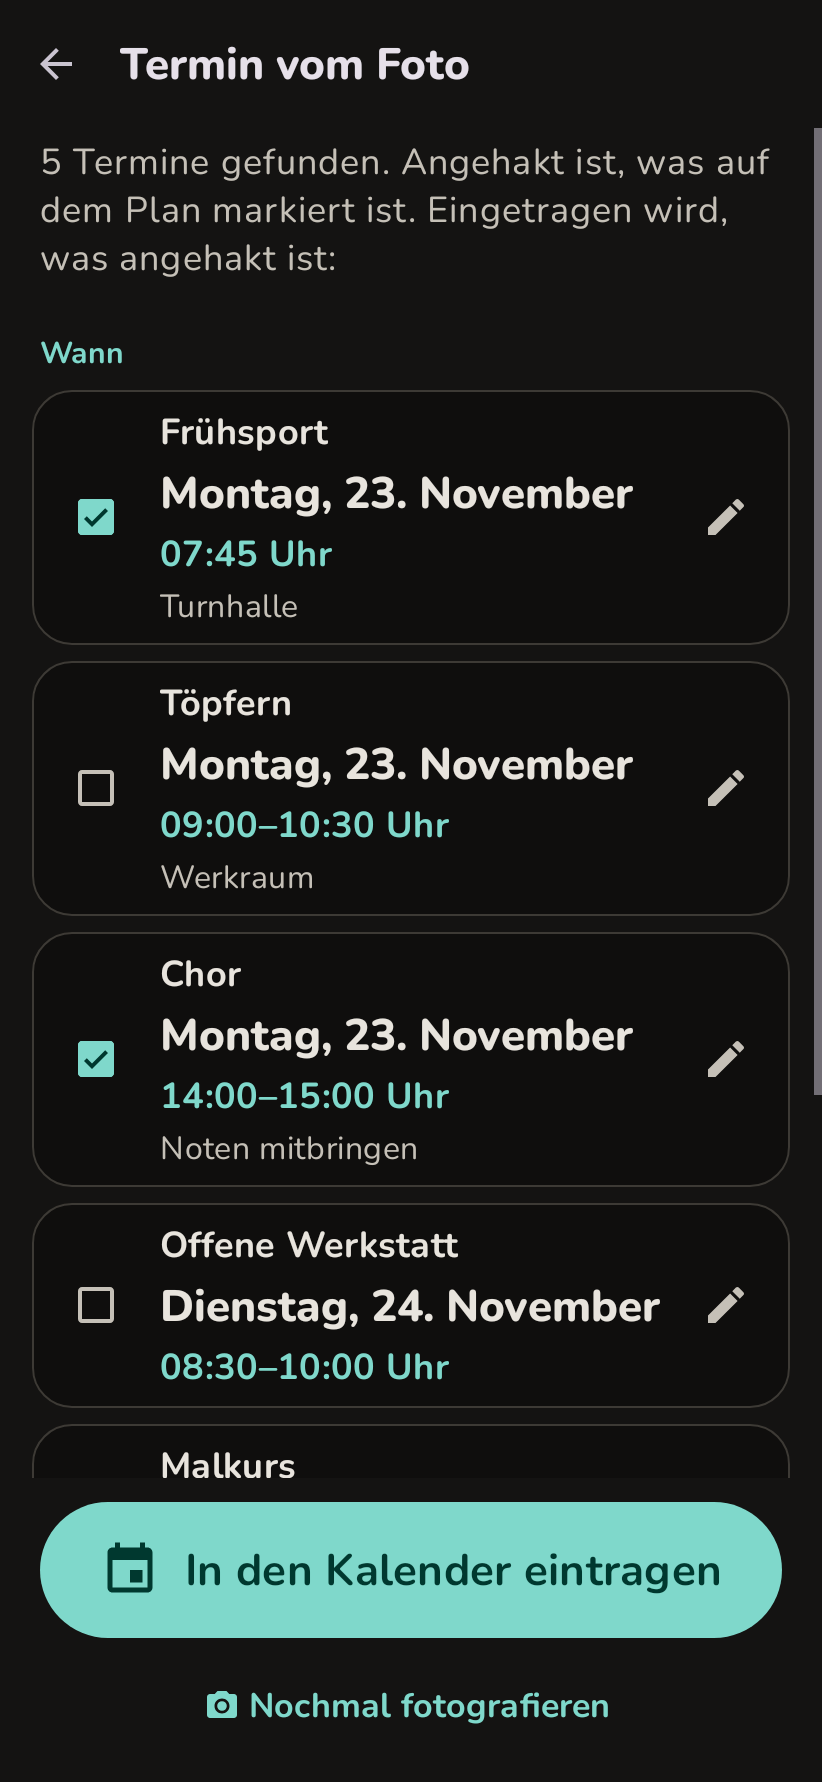
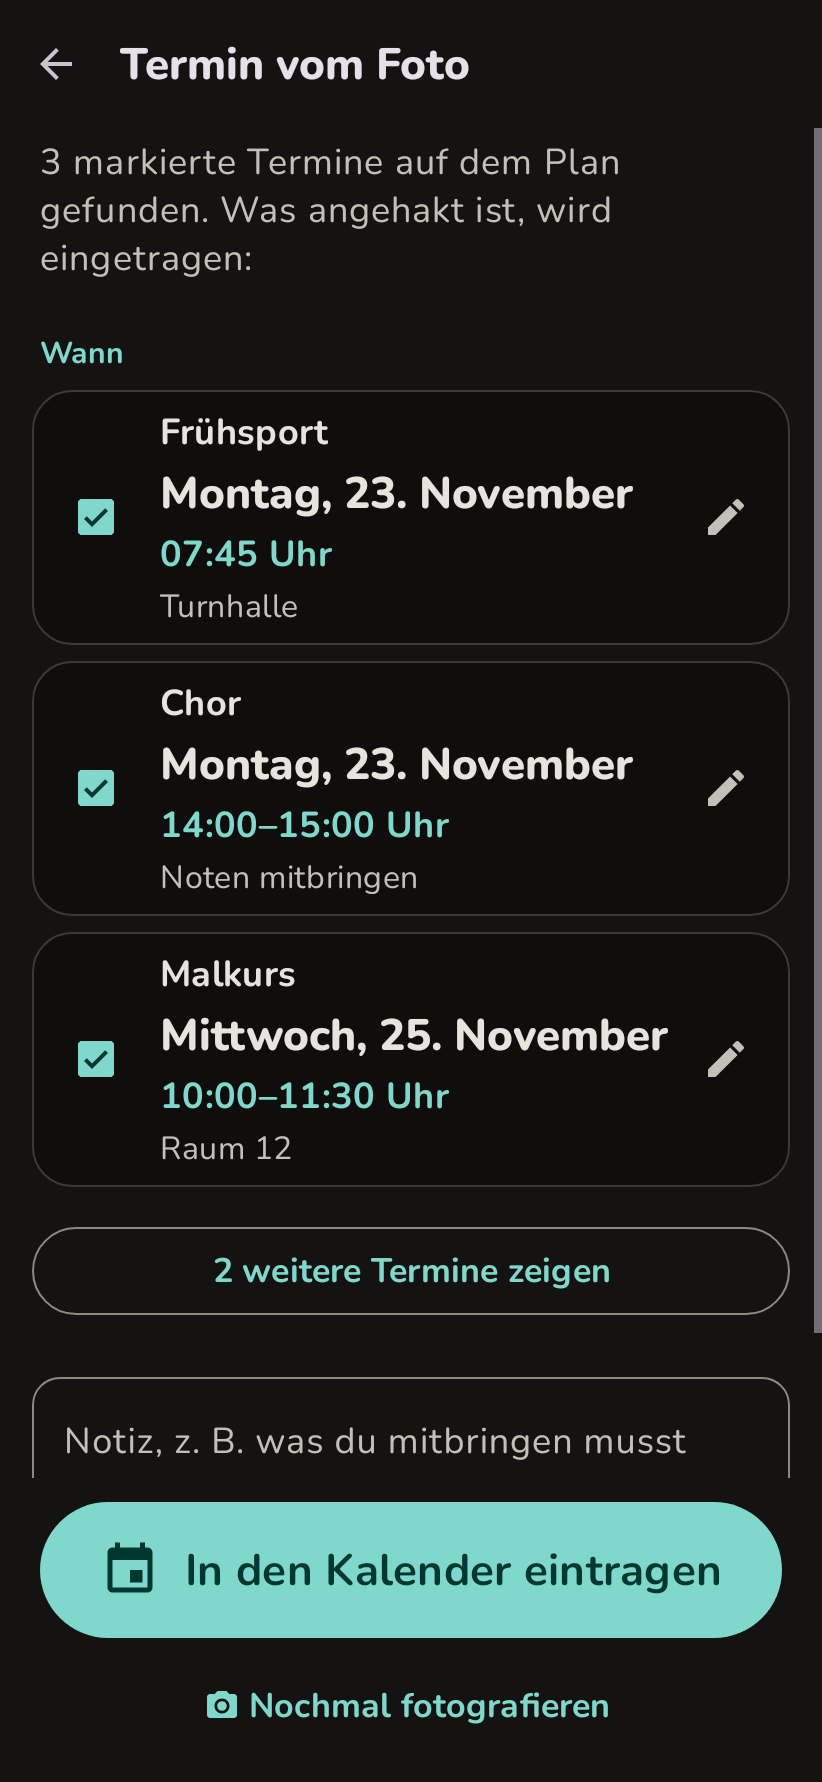
Plans with marked appointments: ticks from the highlighter, the rest folded away (0.11.2)
- The AI often ticked every appointment of a plan, also when only some
  were marked. It is now asked to decide "marked" for each entry on its
  own. When it still ticks everything on a plan (six or more
  appointments with titles), the phone reads the plan itself, tells the
  highlighter by its colour and sets the ticks: PlanReader.withMarks
  matches by weekday, time and title, and what has no clear match keeps
  its tick.
- The check list of a plan with marked appointments shows only those; a
  button ("Show 12 more dates") brings the others.
- The third store screenshot shows the folded list.

Claude-Session: https://claude.ai/code/session_01BeRUbzauKFCoRaM6PqiE45

diff --git a/app/src/test/java/de/silvertax/merks/PhotoFlowTest.kt b/app/src/test/java/de/silvertax/merks/PhotoFlowTest.kt
@@ -483,6 +483,16 @@ class PhotoFlowTest {
         assertEquals("Frühsport", row(activity, 0).findViewById<TextView>(R.id.date_title).text.toString())
         assertEquals("07:30 Uhr", row(activity, 0).findViewById<TextView>(R.id.date_time).text.toString())
         assertEquals("Saal 1", row(activity, 0).findViewById<TextView>(R.id.date_detail).text.toString())
+        // Only what is marked on the plan is listed; a button brings the rest.
+        assertEquals(2, rows(activity).childCount)
+        assertEquals("Chor", row(activity, 1).findViewById<TextView>(R.id.date_title).text.toString())
+        assertEquals("2 markierte Termine auf dem Plan gefunden. Was angehakt ist, wird eingetragen:", activity.findViewById<TextView>(R.id.review_label).text.toString())
+        val more = activity.findViewById<TextView>(R.id.more_dates)
+        assertEquals(View.VISIBLE, more.visibility)
+        assertEquals("1 weiteren Termin zeigen", more.text.toString())
+        more.performClick()
+        assertEquals(View.GONE, more.visibility)
+        assertEquals(3, rows(activity).childCount)
         assertFalse(row(activity, 1).findViewById<CheckBox>(R.id.date_pick).isChecked)
         assertEquals(View.GONE, row(activity, 2).findViewById<View>(R.id.date_detail).visibility)
         // Why one is not ticked: it was not marked on the plan.
@@ -498,6 +508,23 @@ class PhotoFlowTest {
         // The room goes into the entry's note.
         assertEquals("Saal 1", saved[0].note)
         assertNull(saved[1].note)
+    }
+
+    /** A long plan the AI read with everything ticked: the phone looks for the highlighter itself. */
+    @Test fun aPlanTheAiTickedCompletelyIsCheckedForMarksByThePhone() {
+        Prefs.setApiKey(app, "sk-ant-test")
+        val dates = (0 until 8).map { PhotoDate(day.plusDays(it.toLong()), LocalTime.of(9, 0), title = "Kurs $it") }
+        val parts = Parts(first = card, ai = AiPhotoResult(PhotoFind("Kursplan", null, dates, byAi = true), null), words = PlanSheet.courses().words)
+        val activity = photograph(parts)
+        assertEquals(2, parts.wordReads)
+        assertEquals(8, model(activity).dates.size)
+        // A short list, or one with ticks of the AI's own, is left alone.
+        val few = Parts(first = card, ai = AiPhotoResult(PhotoFind("Kursplan", null, dates.take(3), byAi = true), null))
+        photograph(few)
+        assertEquals(0, few.wordReads)
+        val own = Parts(first = card, ai = AiPhotoResult(PhotoFind("Kursplan", null, dates.mapIndexed { i, d -> d.copy(chosen = i % 2 == 0) }, byAi = true), null))
+        photograph(own)
+        assertEquals(0, own.wordReads)
     }
 
     @Test fun aWeeklyPlanIsReadColumnByColumnWithoutAi() {
@@ -517,6 +544,8 @@ class PhotoFlowTest {
         val monday = next.with(DayOfWeek.MONDAY)
         assertEquals(PhotoDate(monday, LocalTime.of(7, 45), source = "07:45 Frühsport Turnhalle", title = "Frühsport", detail = "Turnhalle"), dates[0])
         assertEquals(View.GONE, activity.findViewById<View>(R.id.photo_title_box).visibility)
+        // Nothing is marked, so nothing is folded away.
+        assertEquals(View.GONE, activity.findViewById<View>(R.id.more_dates).visibility)
         assertEquals("Töpfern", row(activity, 1).findViewById<TextView>(R.id.date_title).text.toString())
         assertEquals("Werkraum", row(activity, 1).findViewById<TextView>(R.id.date_detail).text.toString())
         assertEquals("14 Termine gefunden. Was angehakt ist, wird eingetragen:", activity.findViewById<TextView>(R.id.review_label).text.toString())

diff --git a/app/src/main/java/de/silvertax/merks/PhotoActivity.kt b/app/src/main/java/de/silvertax/merks/PhotoActivity.kt
@@ -354,7 +354,27 @@ class PhotoActivity : MerksActivity() {
         }
         // A plan whose own appointments are marked: say why the others are not ticked.
         val marked = f.dates.size > 1 && f.dates.all { it.title != null } && f.dates.any { it.chosen } && f.dates.any { !it.chosen }
-        label.text = resources.getQuantityString(if (marked) R.plurals.photo_found_marked else R.plurals.photo_found, model.dates.size, model.dates.size)
+        // Then only the marked ones are listed, and a button brings the others.
+        val folded = marked && !model.showAll
+        val shown = if (folded) f.dates.count { it.chosen } else model.dates.size
+        label.text = resources.getQuantityString(
+            when {
+                folded -> R.plurals.photo_found_marked_only
+                marked -> R.plurals.photo_found_marked
+                else -> R.plurals.photo_found
+            },
+            shown,
+            shown,
+        )
+        findViewById<Button>(R.id.more_dates).apply {
+            val rest = model.dates.size - shown
+            visibility = if (folded) View.VISIBLE else View.GONE
+            text = resources.getQuantityString(R.plurals.photo_more_dates, rest, rest)
+            setOnClickListener {
+                model.showAll = true
+                fillReview()
+            }
+        }
         // When every date has its own title, a common one is not needed.
         titleBox.visibility = if (model.dates.isNotEmpty() && model.dates.all { it.title != null }) View.GONE else View.VISIBLE
         sourceHint.text = when {
@@ -366,7 +386,7 @@ class PhotoActivity : MerksActivity() {
         sourceHint.visibility = if (sourceHint.text.isEmpty()) View.GONE else View.VISIBLE
         findViewById<View>(R.id.review_show_text).visibility = if (f.text.isBlank()) View.GONE else View.VISIBLE
         rows.removeAllViews()
-        for ((i, d) in model.dates.withIndex()) rows.addView(row(i, d))
+        for ((i, d) in model.dates.withIndex()) if (!folded || f.dates[i].chosen) rows.addView(row(i, d))
     }
 
     private fun row(i: Int, d: PhotoDate): View {
@@ -542,6 +562,9 @@ class PhotoModel : ViewModel() {
     /** Title and note were put into the fields once. */
     var filled = false
 
+    /** On a plan with marked appointments: also the ones that are not marked are listed. */
+    var showAll = false
+
     /** Reading or saving runs in the background. */
     @Volatile
     var busy = false
@@ -627,6 +650,7 @@ class PhotoModel : ViewModel() {
                     dates.clear()
                     dates += f.dates
                     filled = false
+                    showAll = false
                     stage = if (f.dates.isEmpty()) Stage.NOTHING else Stage.REVIEW
                 }
                 onDone?.invoke()
@@ -678,6 +702,7 @@ class PhotoModel : ViewModel() {
             .put("failure", failure)
             .put("editing", editing)
             .put("filled", filled)
+            .put("showAll", showAll)
             .put("picked", pickedDay?.toEpochDay() ?: JSONObject.NULL)
             .put("saved", JSONArray(saved))
             .put("dates", JSONArray(dates.map { dateJson(it) }))
@@ -710,6 +735,7 @@ class PhotoModel : ViewModel() {
         }
         // Once filled, the fields keep what was typed: Android puts it back by itself.
         filled = o.optBoolean("filled")
+        showAll = o.optBoolean("showAll")
     }
 
     private fun dateJson(d: PhotoDate) = JSONObject()

diff --git a/app/src/main/java/de/silvertax/merks/parse/AiParser.kt b/app/src/main/java/de/silvertax/merks/parse/AiParser.kt
@@ -124,14 +124,14 @@ object AiParser {
             Current local time: ${now.withSecond(0).withNano(0)} ($weekday), time zone ${zone.id}.
             Reply with one JSON object and nothing else, compact on one line, without indentation:
             {"title":string,"note":string|null,"appointments":[{"title":string,"start":string,"end":string,"all_day":boolean,"detail":string,"marked":boolean,"source":string}]}
-            In an appointment only "start" is required: leave out every other field that is null or false, and "marked" when it is true.
+            In an appointment "start" and "marked" are required: leave out every other field that is null or false.
             - appointments: each date the reader is to attend (a visit, a treatment, a group, a course, an event), in time order. List every one, also in a table, a timetable or a weekly plan with dozens of entries; never move an appointment into the note. Several treatment dates on one card are several appointments. Leave out the letter's own date, birth dates, validity or expiry dates, opening hours and dates that are over. A deadline ("register by ...") is no appointment: put it into the note.
             - A weekly plan names weekdays: take the dates from the calendar week written on it (e.g. "KW 12" is ISO week 12), otherwise from the current or coming week. What is over today is left out, what is still to come today is kept.
             - start/end: local time as YYYY-MM-DDTHH:MM. A date without a year is the next such date from now; words like "tomorrow" or "next Tuesday" count from now. end only if an end time is written. all_day: true when no time is given (start then uses T00:00); over several days, end is the last day at T00:00.
             - title (top level): short and clear, in the language of the $it: what, and with whom or where, e.g. "Zahnarzt Dr. Neupert" or "Physiotherapie"; for a plan its heading. No date or time.
             - title (of an appointment): when the appointments differ, as in a plan of several groups or treatments, each one's own short title as written, e.g. "Yoga" or "Töpfern"; null when it is the same as the top-level title.
             - detail: the room or place written with this appointment and a short remark, e.g. "Raum 12" or "Turnschuhe mitbringen", in at most 60 characters; null if there is none.
-            - marked: if the reader marked some entries (highlighter, circle, tick, underline) and not others, false for the ones not marked; otherwise leave it out.
+            - marked: look at each entry on its own. true if the reader marked it by hand: a coloured highlighter stroke over or behind its words (often yellow, green, blue or pink), a circle around it, a tick or an underline. false if it is plain print on plain paper. On a plan people mark the entries that are theirs, usually only some of them, so check every entry; if nothing at all is marked, true for all.
             - note: what to bring or to know for all of them, e.g. to come fasting, in the language of the $it, at most two short lines; null if there is nothing.
             - source: the words in the $it the date was read from, as written, at most 60 characters. Leave it out for an appointment with its own title.
             - If nothing is readable or there is no appointment in it, reply with an empty list.

diff --git a/app/src/main/java/de/silvertax/merks/PhotoScan.kt b/app/src/main/java/de/silvertax/merks/PhotoScan.kt
@@ -45,6 +45,9 @@ object PhotoScan {
     private const val MAX_PAGES = 3
     private const val MAX_PICTURES = 4
 
+    /** So many appointments with titles of their own are a plan. */
+    private const val PLAN_SIZE = 6
+
     /** A message or a text file; longer is no message about an appointment. */
     const val MAX_TEXT = 20_000
 
@@ -157,7 +160,7 @@ object PhotoScan {
         val zone = ZoneId.systemDefault()
         val small = lazy { pictures.mapNotNull { f -> open(f)?.let { b -> jpeg(b, AI_SIDE).also { done(b) } } } }
         val ai = Store.askAi(ctx) { key, model -> parts.ai(key, model, small.value, now, zone) }?.find
-        if (ai != null && ai.dates.isNotEmpty()) return ai
+        if (ai != null && ai.dates.isNotEmpty()) return marked(ctx, ai, pictures, ::open, ::done, now)
         // The AI saw no date (or could not be asked): the phone has a look of its own.
         val offline = try {
             offline(ctx, pictures, ::open, ::done, now)
@@ -187,6 +190,24 @@ object PhotoScan {
             second.dates.isNotEmpty() -> second
             second.text.length > first.text.length -> second
             else -> first
+        }
+    }
+
+    /**
+     * A plan the AI read with everything ticked: the AI often does not see what is marked with a
+     * highlighter. The phone tells it by the colour, so it reads the plan itself and sets the ticks.
+     */
+    private fun marked(ctx: Context, ai: PhotoFind, pictures: List<File>, open: (File) -> Bitmap?, done: (Bitmap) -> Unit, now: LocalDateTime): PhotoFind {
+        if (ai.dates.size < PLAN_SIZE || ai.dates.any { !it.chosen } || ai.dates.count { it.title != null } < ai.dates.size - 1) return ai
+        return try {
+            val german = Lang.isGerman(ctx)
+            // From the start of the week, so that what is over today is matched as well.
+            val monday = now.toLocalDate().with(java.time.DayOfWeek.MONDAY).atStartOfDay()
+            val own = pictures.mapNotNull { plan(ctx, it, "", open, done, german, monday) }.flatMap { it.dates }
+            ai.copy(dates = PlanReader.withMarks(ai.dates, own))
+        } catch (e: Throwable) {
+            // Text recognition that does not run on this phone: the AI's list stays as it is.
+            ai
         }
     }
 

diff --git a/app/src/main/java/de/silvertax/merks/parse/PlanReader.kt b/app/src/main/java/de/silvertax/merks/parse/PlanReader.kt
@@ -467,6 +467,39 @@ object PlanReader {
         return PhotoFind(heading.orEmpty(), null, if (dates.any { it.chosen }) dates else dates.map { it.copy(chosen = true) }, text)
     }
 
+    /**
+     * [listed], the appointments someone else read from a plan (the AI), ticked as the phone itself saw
+     * them marked in [seen]: its own reading of the same plan, which tells a highlighter by its colour.
+     * Appointments are matched by weekday, time and title; one without a match keeps its tick. When the
+     * phone saw nothing marked, or everything, [listed] stays as it is.
+     */
+    fun withMarks(listed: List<PhotoDate>, seen: List<PhotoDate>): List<PhotoDate> {
+        if (seen.all { it.chosen } || seen.none { it.chosen }) return listed
+        val left = seen.toMutableList()
+        val match = arrayOfNulls<PhotoDate>(listed.size)
+        fun alike(a: PhotoDate, b: PhotoDate): Boolean {
+            val x = key(a.title.orEmpty())
+            val y = key(b.title.orEmpty())
+            return x.isNotEmpty() && y.isNotEmpty() && distance(x, y) <= (0.3f * max(x.length, y.length)).roundToInt()
+        }
+        fun sameDay(a: PhotoDate, b: PhotoDate) = a.day.dayOfWeek == b.day.dayOfWeek
+        val ways = listOf<(PhotoDate, PhotoDate) -> Boolean>(
+            { a, b -> sameDay(a, b) && a.time == b.time && alike(a, b) },
+            { a, b -> sameDay(a, b) && a.time == b.time },
+            { a, b -> sameDay(a, b) && alike(a, b) },
+        )
+        for (way in ways) {
+            listed.forEachIndexed { i, d ->
+                if (match[i] != null) return@forEachIndexed
+                // Only when it is clear which one is meant.
+                val found = left.filter { way(d, it) }.singleOrNull() ?: return@forEachIndexed
+                match[i] = found
+                left.remove(found)
+            }
+        }
+        return listed.mapIndexed { i, d -> match[i]?.let { d.copy(chosen = it.chosen) } ?: d }
+    }
+
     /** The appointments in one column, from its lines top to bottom. */
     private fun entries(column: Int, rows: List<Row>, step: Float, h: Float): List<Entry> {
         val out = mutableListOf<Entry>()

diff --git a/app/src/test/java/de/silvertax/merks/parse/PlanReaderTest.kt b/app/src/test/java/de/silvertax/merks/parse/PlanReaderTest.kt
@@ -5,7 +5,9 @@ import org.junit.Assert.assertFalse
 import org.junit.Assert.assertNull
 import org.junit.Assert.assertTrue
 import org.junit.Test
+import java.time.LocalDate
 import java.time.LocalDateTime
+import java.time.LocalTime
 
 /** Weekly plans read from the words on their picture and the places of the words. */
 class PlanReaderTest {
@@ -255,6 +257,26 @@ class PlanReaderTest {
         val pixels = paper(sheet, listOf(sheet.at(0, "Töpfern") to teal))
         val find = PlanReader.read(sheet.words, wednesdayNoon, pixels)!!
         assertTrue(find.dates.all { it.chosen })
+    }
+
+    /** The AI ticked everything; the phone saw what is marked and sets the ticks. */
+    @Test fun theAisListTakesTheMarksThePhoneSaw() {
+        val sheet = PlanSheet.courses()
+        val pixels = paper(sheet, listOf(sheet.at(0, "Töpfern") to teal, sheet.at(2, "Malkurs") to teal, sheet.at(4, "Lesecafé") to yellow))
+        val seen = PlanReader.read(sheet.words, mondayMorning, pixels)!!.dates
+        fun ai(day: Int, hour: Int, minute: Int, title: String) = PhotoDate(LocalDate.of(2026, 11, 16 + day), LocalTime.of(hour, minute), title = title)
+        val listed = listOf(
+            ai(0, 7, 45, "Frühsport"), ai(0, 9, 0, "Töpfern"), ai(0, 14, 0, "Chor"),
+            // The phone misread nothing here, but the AI wrote one title another way and one time the phone has not.
+            ai(2, 10, 0, "Mal-Kurs"), ai(4, 15, 0, "Lesecafé"), ai(4, 7, 45, "Frühsport"),
+            // Not in the phone's reading at all: it keeps its tick.
+            PhotoDate(LocalDate.of(2026, 11, 19), title = "Sommerfest"),
+        )
+        val ticked = PlanReader.withMarks(listed, seen).filter { it.chosen }.map { it.title }
+        assertEquals(listOf("Töpfern", "Mal-Kurs", "Lesecafé", "Sommerfest"), ticked)
+        // Nothing marked on the paper: the list stays as it is.
+        val plain = PlanReader.read(sheet.words, mondayMorning, paper(sheet, emptyList()))!!.dates
+        assertTrue(PlanReader.withMarks(listed, plain).all { it.chosen })
     }
 
     // ---------- No plan ----------

diff --git a/CHANGELOG.md b/CHANGELOG.md
@@ -2,6 +2,16 @@
 
 What changed for users, per version. When a GitHub release is created with an empty description, the Build workflow fills it in from the section of that version.
 
+## 0.11.2
+
+### Changed
+
+- **Weekly plans with marked appointments:** the check list shows only what is marked on the plan. A button below it, e.g. "Show 12 more dates", brings the others to tick as well.
+
+### Fixed
+
+- **Weekly plans with AI:** the AI often ticked every appointment, also when only some were marked with a highlighter. It is now asked about each entry on its own, and when it still ticks everything, the phone looks at the colours itself and ticks only what is marked. Reading such a plan takes a little longer for that.
+
 ## 0.11.1
 
 ### Fixed
